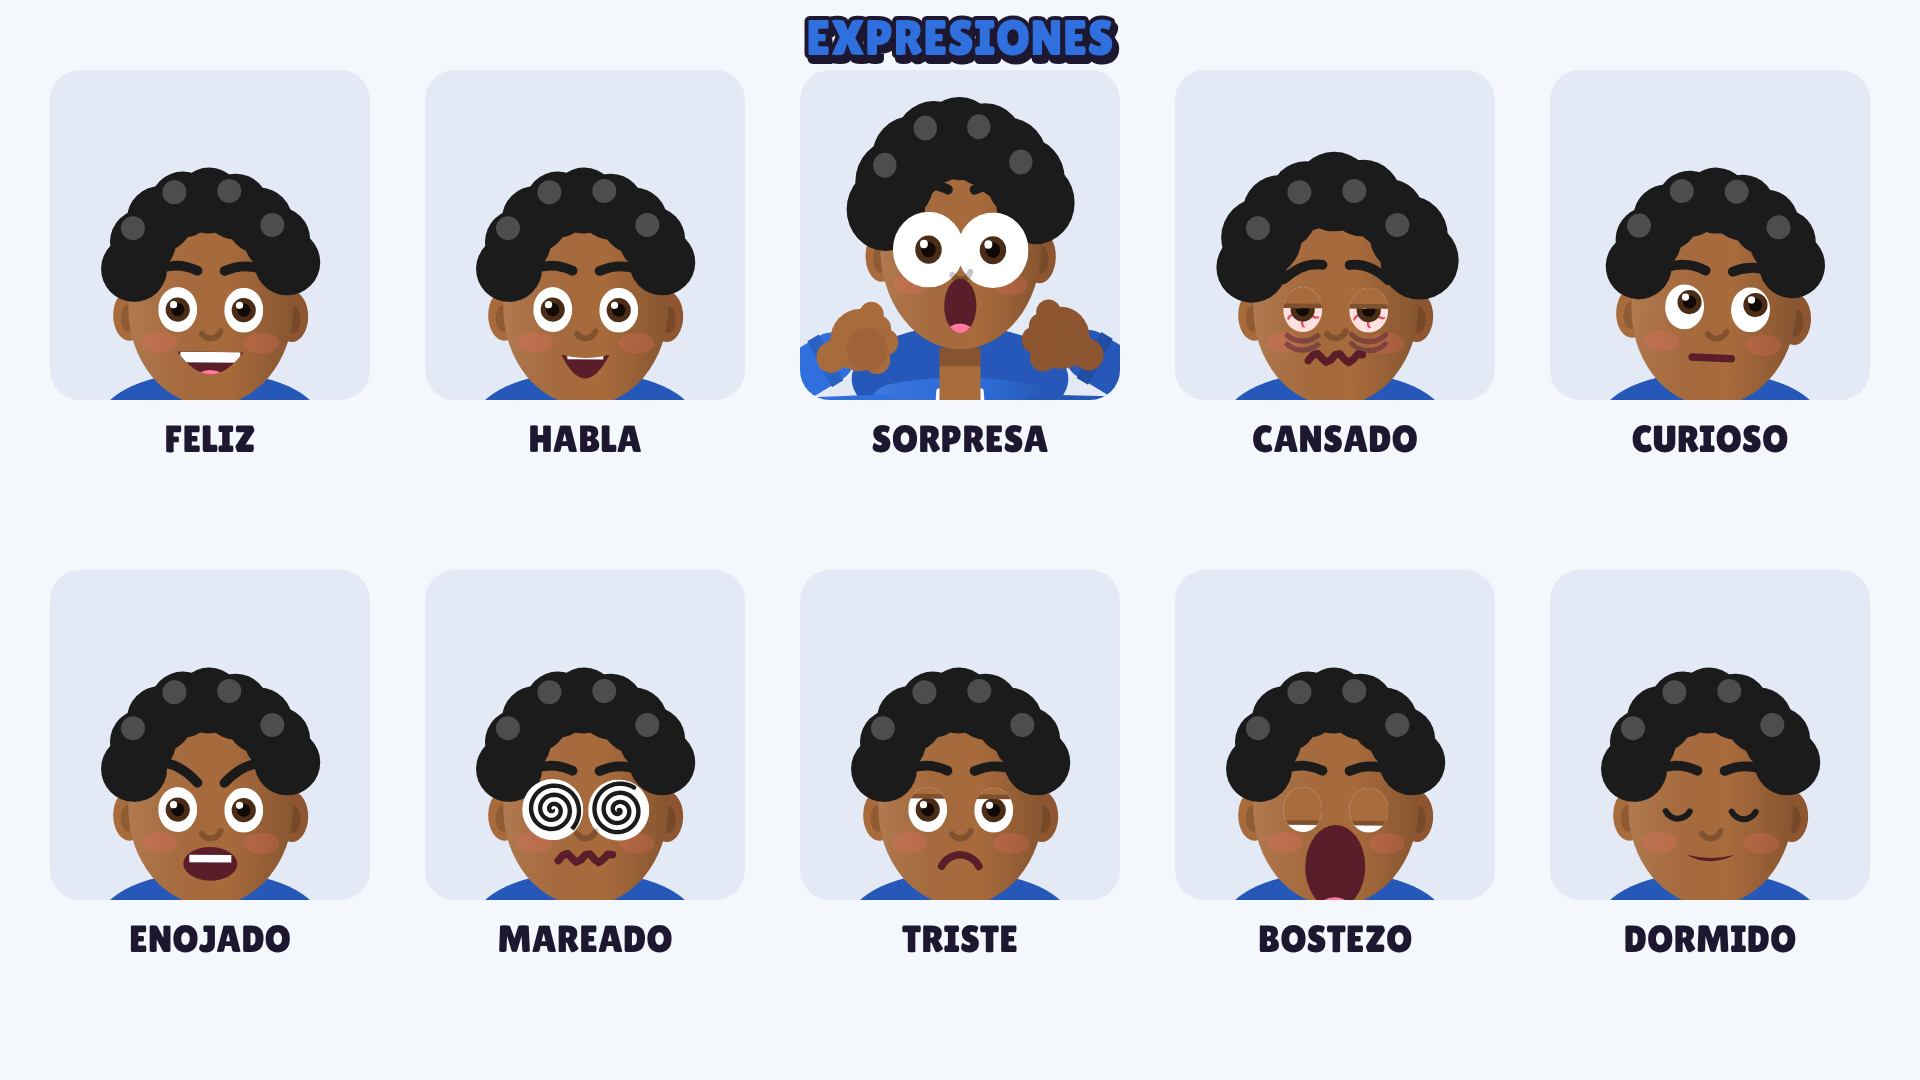
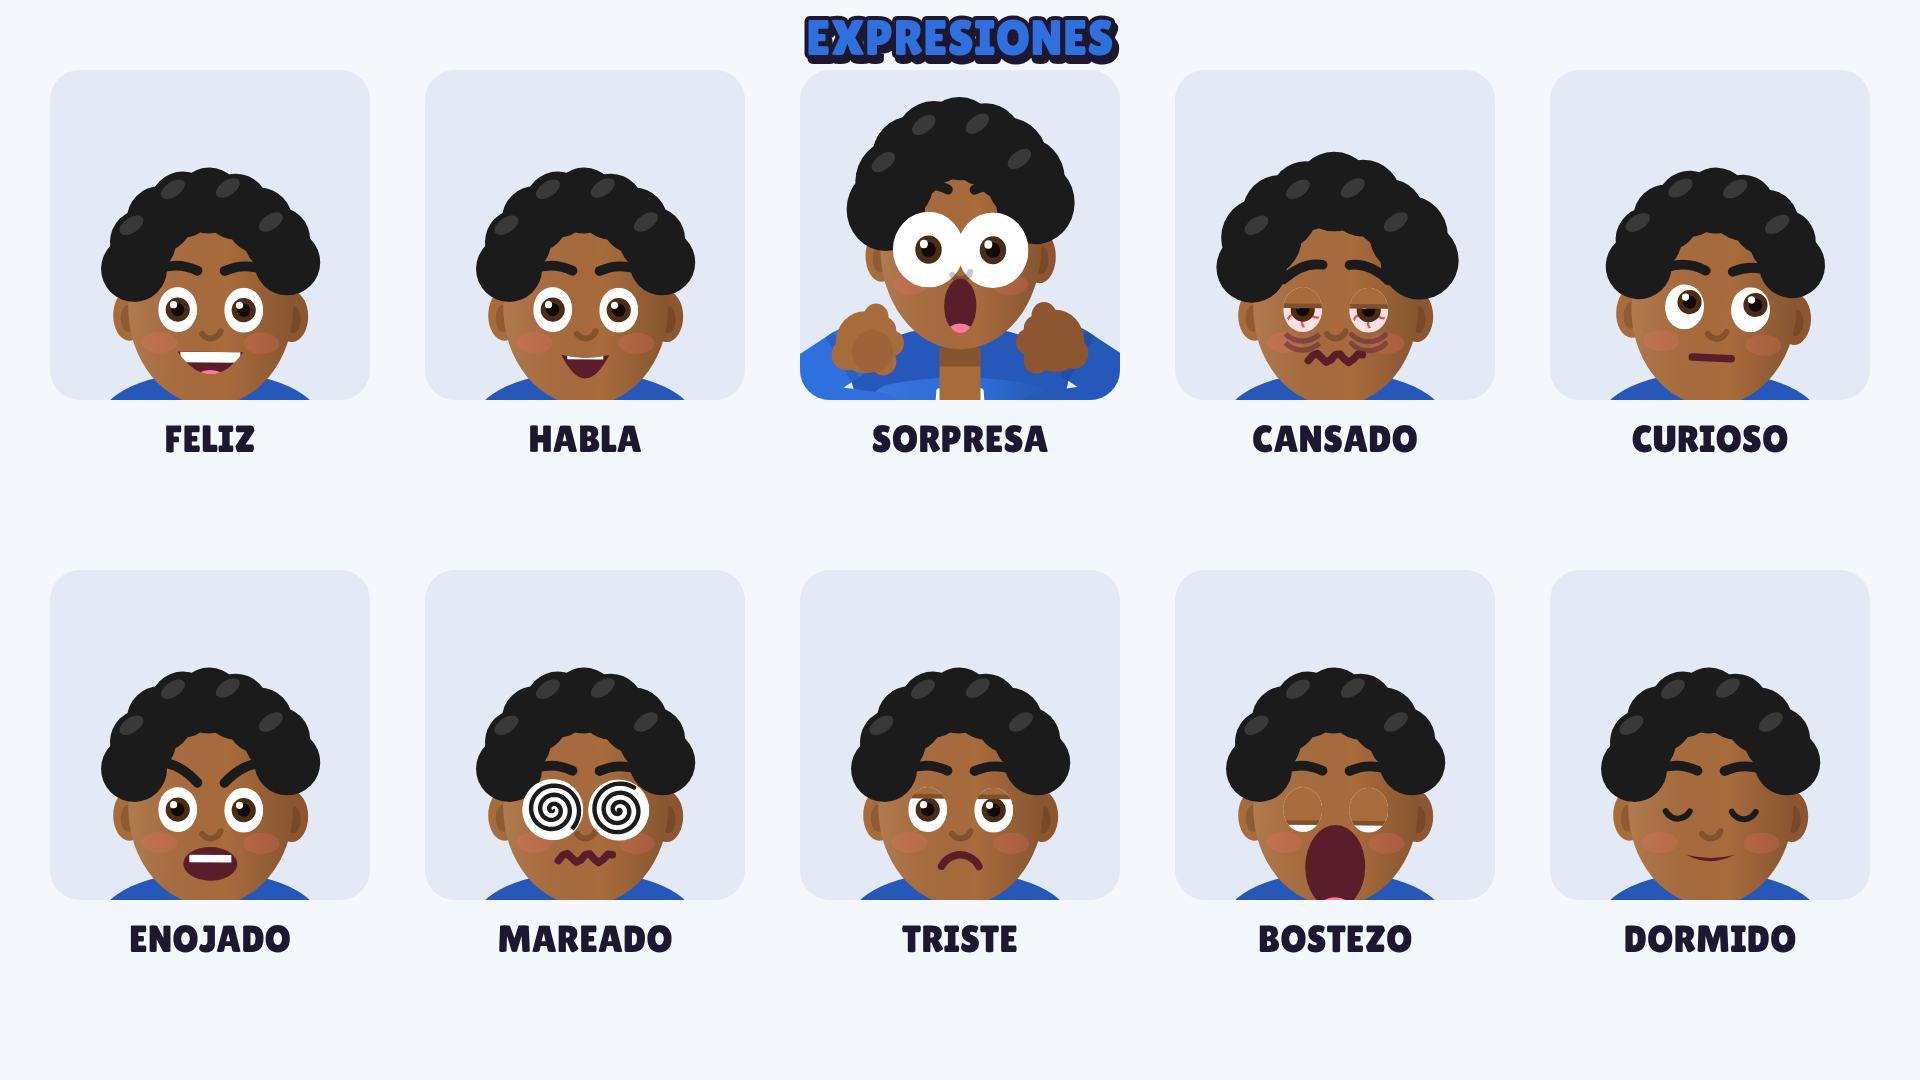
Brazos cortos y naturales para todos los personajes (alcance limitado)
Claude-Session: https://claude.ai/code/session_01GEyeamz3Sz82rAWdiS8C2Y

diff --git a/animacion/motor/pro.js b/animacion/motor/pro.js
@@ -71,18 +71,21 @@ function _hand(ctx, hx, hy, dx, dy, sx, skin, skinD) {
   ctx.fillStyle = skinD; ctx.globalAlpha = 0.35; ctx.beginPath(); ctx.arc(hx + 5, hy + 6, 14, 0, Math.PI * 2); ctx.fill(); ctx.globalAlpha = 1;
 }
 function _arm(ctx, S, Hd, sx, sleeve, cuff, skin, skinD) {
-  const L1 = 112, L2 = 112; let dx = Hd[0] - S[0], dy = Hd[1] - S[1]; let d = Math.hypot(dx, dy) || 1; d = Math.min(d, L1 + L2 - 2);
+  const L1 = 76, L2 = 76, REACH = L1 + L2 - 2;                      // brazo corto y natural: la mano en reposo llega a la cadera
+  let dx = Hd[0] - S[0], dy = Hd[1] - S[1]; let d = Math.hypot(dx, dy) || 1;
+  if (d > REACH) { Hd = [S[0] + dx / d * REACH, S[1] + dy / d * REACH]; dx = Hd[0] - S[0]; dy = Hd[1] - S[1]; d = REACH; } // ninguna pose estira el brazo
   const a = d / 2, h = Math.sqrt(Math.max(0, L1 * L1 - a * a)), mx = S[0] + dx / 2, my = S[1] + dy / 2; let px = -dy / d, py = dx / d;
   const score = (qx, qy) => qx * sx * 0.75 + qy * 0.55;             // el codo prefiere abrirse hacia afuera y hacia abajo
   if (score(px, py) < score(-px, -py)) { px = -px; py = -py; }
   const E = [mx + px * h, my + py * h];
   const fx = Hd[0] - E[0], fy = Hd[1] - E[1], C = [E[0] + fx * 0.8, E[1] + fy * 0.8];
   ctx.lineCap = 'round'; ctx.lineJoin = 'round';
-  ctx.strokeStyle = sleeve; ctx.lineWidth = 32; ctx.beginPath(); ctx.moveTo(S[0], S[1]); ctx.lineTo(E[0], E[1]); ctx.lineTo(C[0], C[1]); ctx.stroke();
+  ctx.strokeStyle = sleeve; ctx.lineWidth = 34; ctx.beginPath(); ctx.moveTo(S[0], S[1]); ctx.lineTo(E[0], E[1]); ctx.lineTo(C[0], C[1]); ctx.stroke();
   ctx.strokeStyle = 'rgba(0,0,0,0.14)'; ctx.lineWidth = 10; ctx.beginPath(); ctx.moveTo(S[0] + 4, S[1] + 10); ctx.lineTo(E[0] + 4, E[1] + 8); ctx.stroke(); // pliegue de sombra
   ctx.strokeStyle = cuff; ctx.lineWidth = 34; ctx.lineCap = 'butt'; ctx.beginPath(); ctx.moveTo(E[0] + fx * 0.72, E[1] + fy * 0.72); ctx.lineTo(C[0], C[1]); ctx.stroke(); // puño
   ctx.strokeStyle = skin; ctx.lineWidth = 20; ctx.lineCap = 'round'; ctx.beginPath(); ctx.moveTo(C[0], C[1]); ctx.lineTo(Hd[0], Hd[1]); ctx.stroke();
   _hand(ctx, Hd[0], Hd[1], fx, fy, sx, skin, skinD);
+  return Hd;                                                       // posición real de la mano (para objetos que sostiene)
 }
 function drawPerson(ctx, x, y, s, e, P) {
   const t = e.t, sh = clamp(e.shock || 0), talk = e.talk || 0, red = e.red || 0, bags = e.bags || 0, fr = e.frazzle || 0;
@@ -180,10 +183,10 @@ function drawPerson(ctx, x, y, s, e, P) {
   // --- brazos con codo y manos con dedos ---
   for (const sx of [-1, 1]) {
     const gest = sx > 0 ? (talk ? Math.sin(t * 6) * 30 : Math.sin(t * 2) * 8) : (e.walk ? -walk * 20 : Math.sin(t * 2 + 2) * 5);
-    let Hd = [sx * lerp(74, 62, sh), lerp(-118 - gest, -420, sh)];             // reposo: brazo colgando natural
+    let Hd = [sx * lerp(76, 62, sh), lerp(-178 - gest * 0.6, -420, sh)];       // reposo: la mano queda a la altura de la cadera
     const ov = sx < 0 ? e.handL : e.handR; if (ov) Hd = ov;
     const sleeve = coat ? (sx > 0 ? '#dfe6ef' : '#f4f7fb') : (sx > 0 ? shirtD : shirt);
-    _arm(ctx, [sx * 54, -322], Hd, sx, sleeve, coat ? '#ced4da' : shadeHex(sx > 0 ? shirtD : shirt, -0.12), sx > 0 ? skinD : skin, skinD);
+    Hd = _arm(ctx, [sx * 54, -322], Hd, sx, sleeve, coat ? '#ced4da' : shadeHex(sx > 0 ? shirtD : shirt, -0.12), sx > 0 ? skinD : skin, skinD);
     if (sx > 0 && e.hold) heldObject2(ctx, e, Hd[0], Hd[1]);
     if (sx < 0 && e.holdL) heldObject2(ctx, Object.assign({}, e, { hold: e.holdL }), Hd[0], Hd[1]);
   }

diff --git a/canal/guia-dibujo.md b/canal/guia-dibujo.md
@@ -37,7 +37,7 @@ Para regenerar las hojas después de cambiar el estándar: abrir `animacion/moto
 
 **Función:** `drawPerson(ctx, x, y, escala, e, P)` — atajo para Leo: `leo(ctx, x, y, escala, e)`.
 
-**Anclas (a escala 1):** pies en `(0,0)`, cadera `y=-178`, hombros `(±54,-322)`, centro de la cabeza `(0,-425)`, alto total ≈ 500 px. Brazo y antebrazo miden 112 px cada uno (alcance máximo ≈ 224 px desde el hombro).
+**Anclas (a escala 1):** pies en `(0,0)`, cadera `y=-178`, hombros `(±54,-322)`, centro de la cabeza `(0,-425)`, alto total ≈ 500 px. **Brazos cortos:** brazo y antebrazo miden 76 px cada uno (alcance máximo ≈ 150 px desde el hombro); en reposo la mano queda a la altura de la cadera. Si una pose pide la mano más lejos, el brazo NO se estira: la mano se queda en su alcance máximo. Nunca alargar los brazos (se ven inquietantes).
 
 **Cómo se construye (orden de capas):**
 1. Sombra de contacto → piernas (trapecios con franja de sombra interior) → tenis (suela gris, franja del color de la sudadera).
@@ -50,7 +50,7 @@ Para regenerar las hojas después de cambiar el estándar: abrir `animacion/moto
 
 **Parámetros de expresión `e`:** `open` (párpado 0–1), `look [x,y]`, `mouth` (`smile|grin|o|yawn|wobbly|flat|sad|angry|chew`), `mouthOpen`, `talk`, `shock`, `eyeSize`, `pupil`, `red`, `bags`, `spiral`, `frazzle`, `angry`, `blush`, `handL/handR [x,y]`, `hold/holdL`, `walk`, `sit`, `inBed`, `flip`, `rot`, `noShadow`.
 
-**Poses de mano útiles (coordenadas locales):** reposo `(±74,-118)` · saludar `(140,-470)` · señalar `(190,-330)` · pensar `(40,-385)` · manos a la cabeza (susto) `(±62,-420)` · brazos arriba `(±130,-520)` · sostener algo `(110,-300)`.
+**Poses de mano útiles (coordenadas locales; se recortan al alcance del brazo):** reposo `(±76,-178)` · saludar `(140,-470)` · señalar `(190,-330)` · pensar `(40,-385)` · manos a la cabeza (susto) `(±62,-420)` · brazos arriba `(±130,-520)` · sostener algo `(110,-300)`.
 
 **Vida propia (ya incluida, no quitar):** respiración del torso, inclinación de la cabeza hacia donde mira, cordones y pelo que rebotan, estirón vertical con `shock`, parpadeo con `E(t, {...})`.
 
